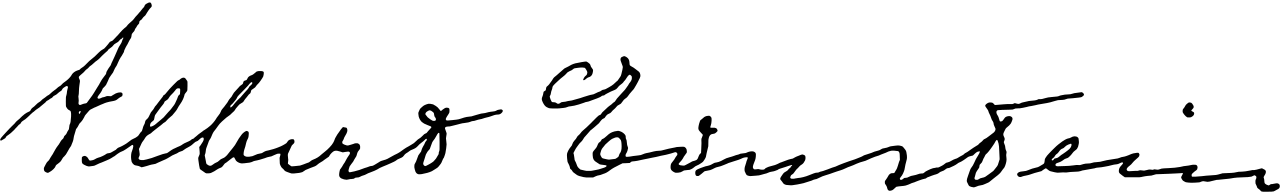
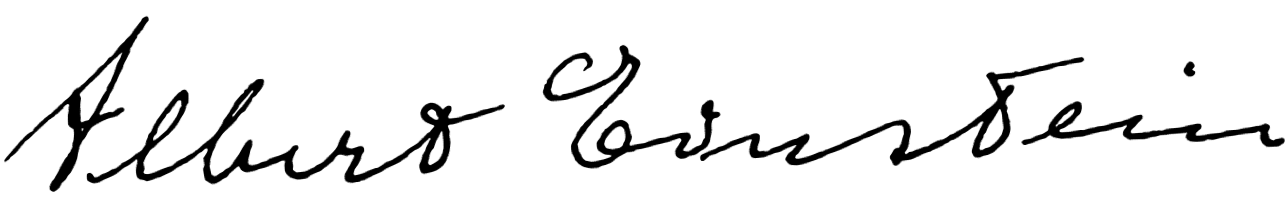
rotate sig, contact info

Changed region(s): [[0.0, 0.0311, 1.0, 0.9948], [0.9062, 0.3109, 0.9375, 0.3731]]

diff --git a/index.html b/index.html
@@ -1164,15 +1164,6 @@
 					</div>
 				</div>
 
-				<!-- GOOGLE MAP -->
-				<div class="page-section">
-					<div class="container-fluid">
-						<div class="row row-sm-fix">
-							<div data-address="555 California Street, San Francisco, CA" id="google-map"></div>
-						</div>
-					</div>
-				</div>
-
 				<!-- CONTACT INFO SECTION 1 FONT JOSEFIN -->
 				<div id="contact-link" class="page-section p-100-cont bg-gray">
 					<div class="container">
@@ -1184,8 +1175,8 @@
 										<div class="icon icon-basic-map"></div>
 									</div>
 									<div class="cis-text">
-										<h3 class="font-montserrat"><strong>Address</strong></h3>
-										<p>790 Folsom Ave, San Francisco</p>
+										<h3 class="font-montserrat"><strong>Location</strong></h3>
+										<p>San Francisco</p>
 									</div>
 								</div>
 							</div>
@@ -1196,7 +1187,7 @@
 									</div>
 									<div class="cis-text">
 										<h3 class="font-montserrat"><strong>Email</strong></h3>
-										<p><a href="mailto:info@haswell.com">info@elementy.com</a></p>
+										<p><img src="images/theplaz/email.png"></p>
 									</div>
 								</div>
 							</div>
@@ -1206,8 +1197,8 @@
 										<div class="icon icon-basic-smartphone"></div>
 									</div>
 									<div class="cis-text">
-										<h3 class="font-montserrat"><strong>Call Us</strong></h3>
-										<p>1-800-312-212, 1-800-311-101</p>
+										<h3 class="font-montserrat"><strong>Messenger</strong></h3>
+										<p><a href="https://m.me/theplaz">theplaz</a></p>
 									</div>
 								</div>
 							</div>
